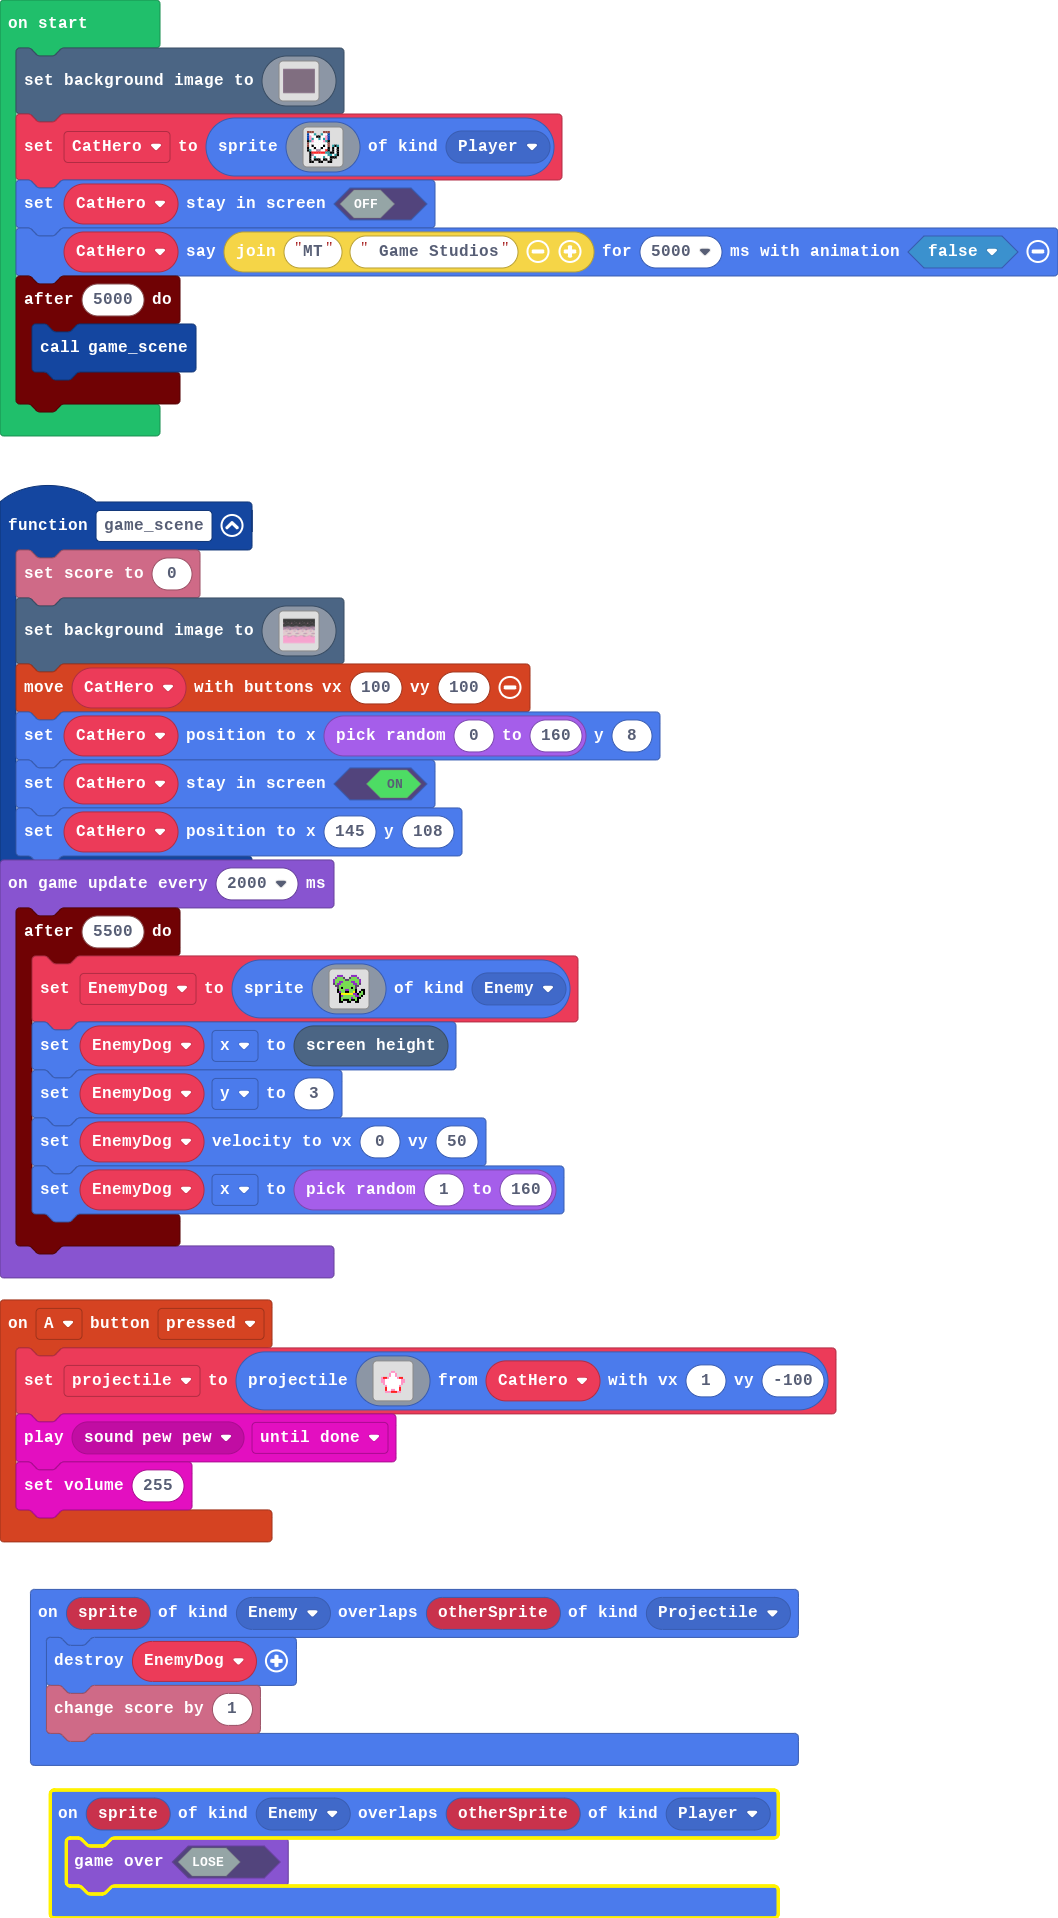
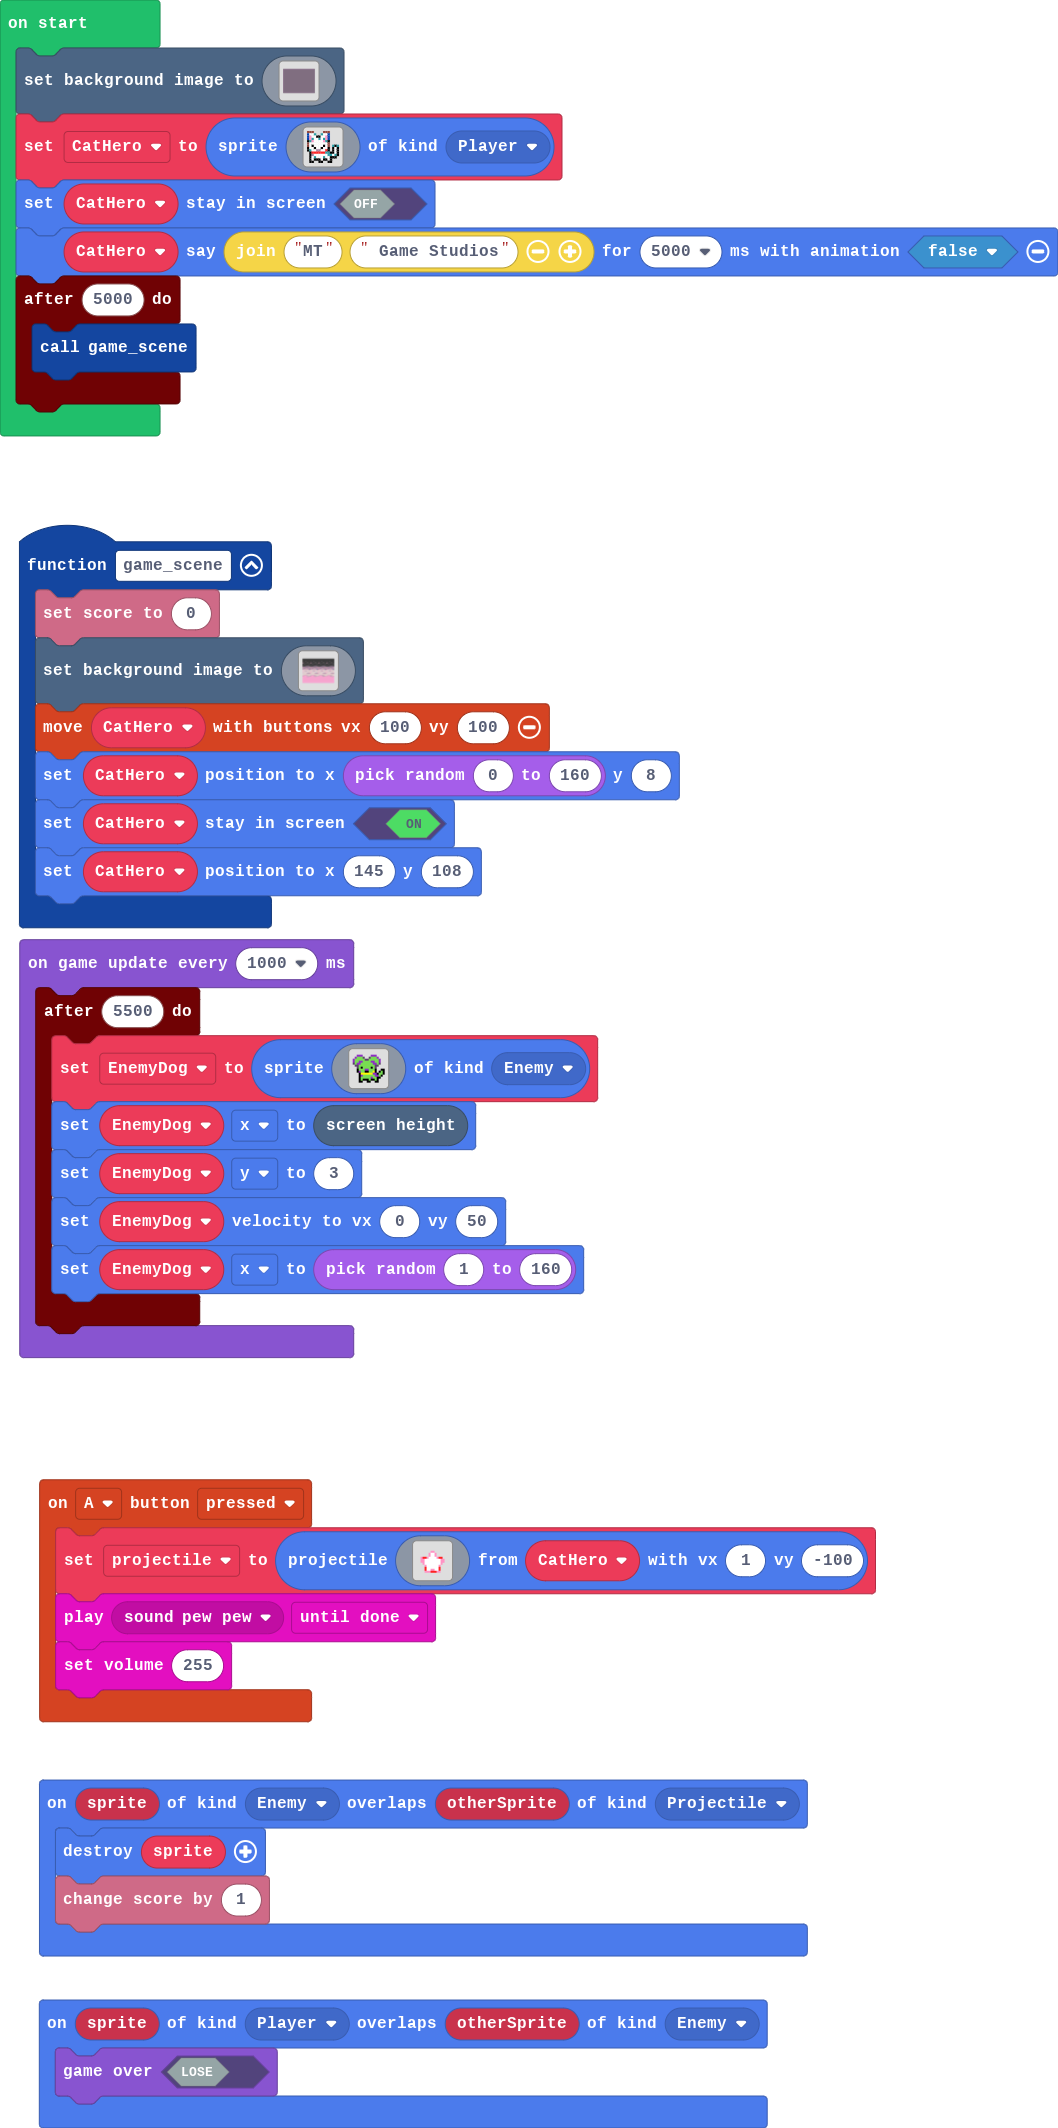
changed the enemy to sprite thing to destroy

Changed region(s): [[0.0, 0.0, 1.0, 1.0]]

diff --git a/main.ts b/main.ts
@@ -21,11 +21,8 @@ controller.A.onEvent(ControllerButtonEvent.Pressed, function () {
     music.setVolume(255)
 })
 sprites.onOverlap(SpriteKind.Enemy, SpriteKind.Projectile, function (sprite, otherSprite) {
-    sprites.destroy(EnemyDog)
+    sprites.destroy(sprite)
     info.changeScoreBy(1)
-})
-sprites.onOverlap(SpriteKind.Enemy, SpriteKind.Player, function (sprite, otherSprite) {
-    game.gameOver(false)
 })
 function game_scene () {
     info.setScore(0)
@@ -156,6 +153,9 @@ function game_scene () {
     CatHero.setStayInScreen(true)
     CatHero.setPosition(145, 108)
 }
+sprites.onOverlap(SpriteKind.Player, SpriteKind.Enemy, function (sprite, otherSprite) {
+    game.gameOver(false)
+})
 let EnemyDog: Sprite = null
 let projectile: Sprite = null
 let CatHero: Sprite = null
@@ -302,7 +302,7 @@ CatHero.sayText("MT" + " Game Studios", 5000, false)
 timer.after(5000, function () {
     game_scene()
 })
-game.onUpdateInterval(2000, function () {
+game.onUpdateInterval(1000, function () {
     timer.after(5500, function () {
         EnemyDog = sprites.create(img`
             . . a a a . . . . a a a . . . . 
